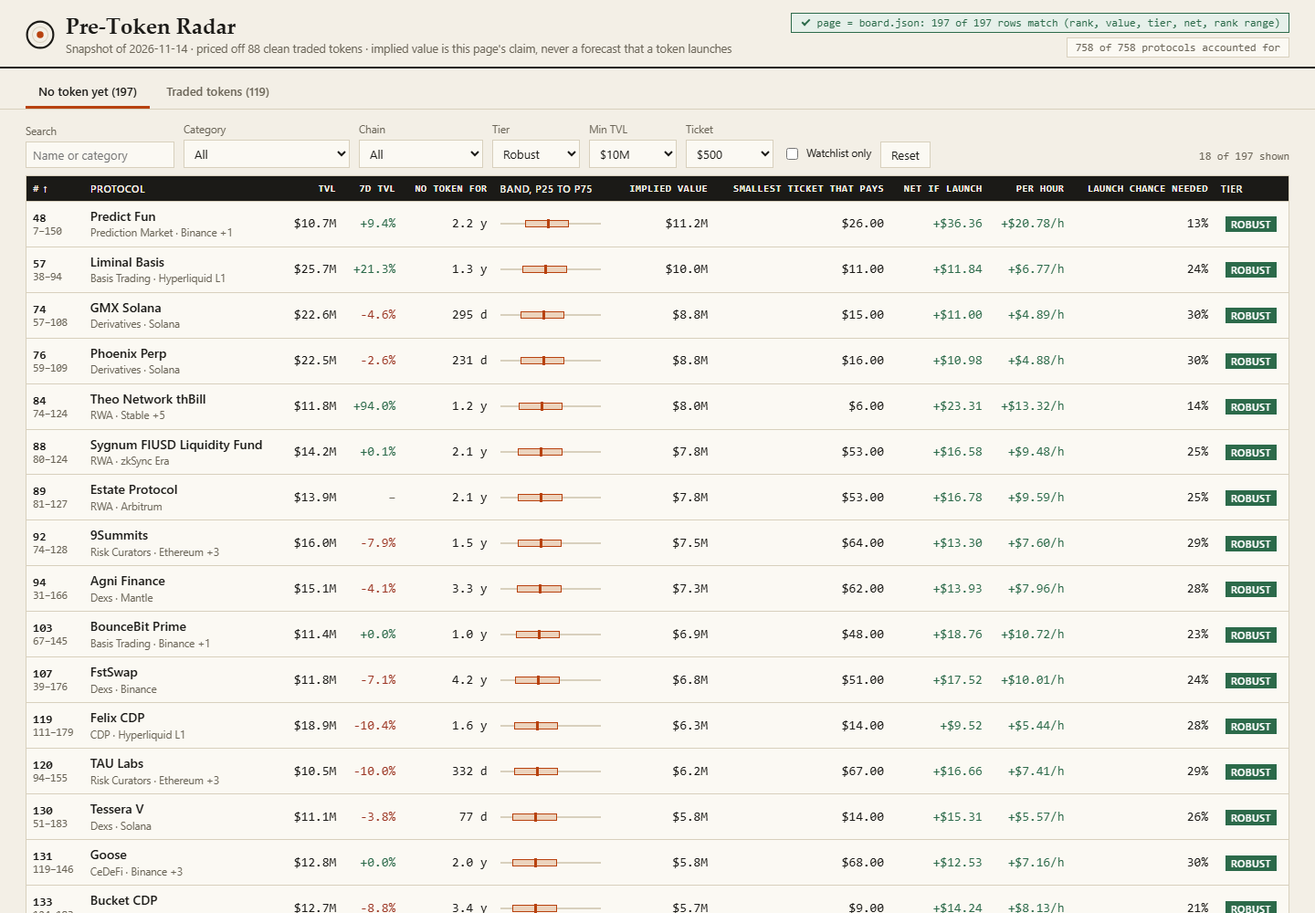
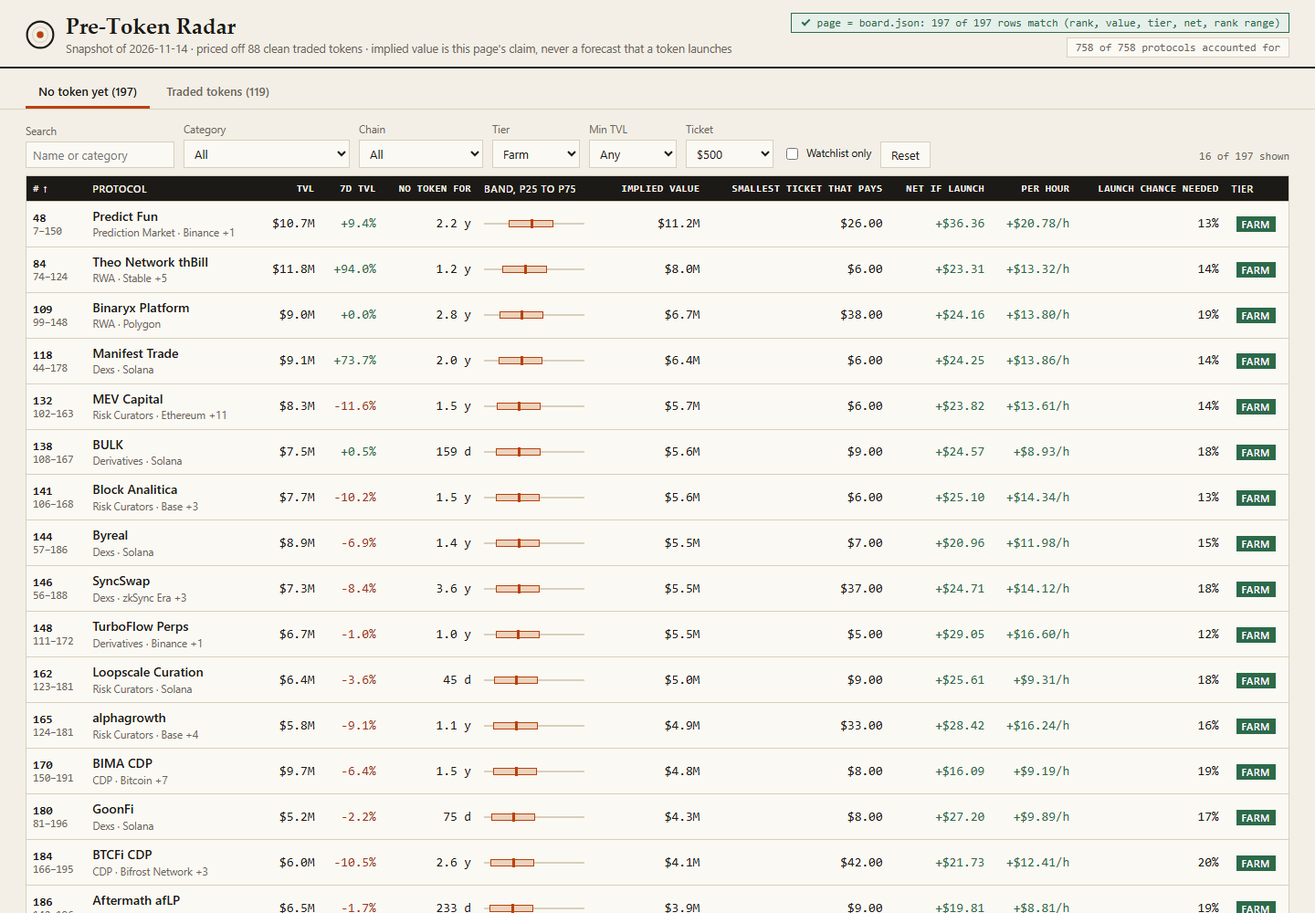
v7: day-by-day farm table with stop rule, three tiers, KPI strip, fourth screenshot

diff --git a/dashboard/app.js b/dashboard/app.js
@@ -3,6 +3,7 @@
 'use strict';
 var S = window.SNAPSHOT, M = window.RadarModel, FILE = window.BOARD;
 if (!S || !M) return;
+var LABEL = { farm: 'Worth farming', marginal: 'Marginal', skip: 'Skip' };
 var D = M.PARAMS, main = document.getElementById('main'), board, bySlug;
 var st = {
   tab: 'board', q: '', cat: 'all', chain: 'all', tier: 'all', minTvl: 0, list: false, sort: 'rank', dir: 1,
@@ -69,9 +70,7 @@ function header() {
   box.appendChild(el('span', { cls: 'stamp' + (good ? ' ok' : ' bad') }, ['page = board.json: ' + ok + ' of ' + base.rows.length + ' rows match', el('span', { cls: 'long', text: '(rank, value, tier, net, rank range)' })]));
   var total = board.rows.length + board.aside.length + board.withToken;
   box.appendChild(el('span', { cls: 'stamp plain', text: total + ' of ' + S.protocols.length + ' protocols accounted for' }));
-  var top = board.rows.slice(0, 10), never = top.filter(function (r) { return r.min_ticket_usd === null; }).length;
-  var best = board.rows.filter(function (r) { return r.verdict === 'robust'; }).sort(function (a, b) { return b.net_per_hour_usd - a.net_per_hour_usd; }).slice(0, 3);
-  st.find = { never: never, best: best };
+  st.best = board.rows.filter(function (r) { return r.verdict === 'farm'; }).sort(function (a, b) { return b.net_per_hour_usd - a.net_per_hour_usd; })[0];
   document.getElementById('finding').textContent = 'Snapshot of ' + S.as_of + ' · priced off ' + board.model.n + ' clean traded tokens · implied value is this page\'s claim, never a forecast that a token launches';
 }
 
@@ -139,22 +138,25 @@ function planPanel() {
       el('button', { type: 'button', cls: 'btn', text: 'Download board CSV', onclick: downloadCsv })])]);
 }
 
+function kpi(items) {
+  return el('div', { cls: 'kpi' }, items.map(function (x) { return el('div', null, [el('b', { text: x[0] }), el('span', { text: x[1] })]); }));
+}
 function hero() {
-  var f = st.find, names = f.best.map(function (r) { return r.name; }).join(', ');
+  var m = board.model, t = board.tiers, b = st.best, band = m.bands[0], inList = board.rows.filter(function (r) { return r.on_watchlist; }).length;
   return el('section', { cls: 'hero' }, [
     el('h2', { text: board.rows.length + ' protocols record no token. Here is what each launch would be worth, and what farming it nets.' }),
-    el('p', { text: 'Each value is read off a curve fitted to the ' + board.model.n + ' clean tokens that already trade; one function in model.js prices every row here and in board.json. Each plan is netted against fees, friction and the T-bill return: ' + f.never + ' of the 10 largest pay at no ticket size, while ' + (names || 'none') + ' pay best per hands-on hour.' }),
+    el('p', { text: 'Each value is read off a curve fitted to the ' + m.n + ' clean tokens that already trade. One function in model.js prices every row here and in board.json, and each plan is netted against fees, friction and the T-bill return.' }),
+    kpi([[String(board.rows.length), 'record no token; ' + inList + ' of ' + S.watchlist.length + ' watchlist protocols ranked'],
+      ['×' + m.backtest.full.median.toFixed(2), 'median miss when each traded token is left out; one flat multiple misses ×' + m.backtest.flat.median.toFixed(2)],
+      [Math.round(band.blind * 100) + '%', 'of held-out market caps land inside the printed P25 to P75 band, ' + Math.round(band.newer * 100) + '% on the newest tokens'],
+      [String(t.farm), 'worth farming at ' + usd(st.capital) + '; ' + t.marginal + ' marginal, ' + t.skip + ' skip'],
+      [b ? net(b.net_per_hour_usd) + '/h' : 'none', b ? 'best net per hands-on hour: ' + b.name : 'no plan clears the farm bar']]),
     accounting()]);
 }
-
 function buildPanel() {
-  var m = board.model, b = m.backtest, t = board.tiers, inList = board.rows.filter(function (r) { return r.on_watchlist; }).length;
-  function fig(big, label) { return el('div', null, [el('b', { text: big }), el('span', { text: label })]); }
+  var m = board.model, b = m.backtest;
   return el('section', { cls: 'panel', 'aria-label': 'How a value is built' }, [
     el('h2', { text: 'How a value is built, and how it tested' }),
-    el('div', { cls: 'figs' }, [
-      fig(String(board.rows.length), 'ranked, no token'), fig(inList + ' / ' + S.watchlist.length, 'watchlist covered'),
-      fig(t.robust + ' · ' + t.farm + ' · ' + t.thin + ' · ' + t.skip, 'robust · farm · thin · skip at ' + usd(st.capital))]),
     mini(['Each adds a term', 'Blind miss', '≤ ×3', 'Rank ρ', 'Newer miss'], m.ablation.map(function (a, i) {
       return [a.label + (i === 2 ? ' · used' : i > 2 ? ' · capped' : ''), '×' + a.miss.toFixed(2), Math.round(a.within3 * 100) + '%', a.rho === null ? '–' : a.rho.toFixed(2), '×' + a.newer.toFixed(2)];
     }), 'compareModels()', 2),
@@ -223,7 +225,7 @@ function controls() {
     field('Search', el('input', { type: 'search', value: st.q, placeholder: 'Name or category', oninput: function (e) { st.q = e.target.value; fill(); } })),
     pick('Category', st.cat, all.concat(cats.map(function (c) { return [c, c]; })), function (v) { st.cat = v; render(); }),
     pick('Chain', st.chain, all.concat(chains.map(function (c) { return [c, c]; })), function (v) { st.chain = v; render(); }),
-    pick('Tier', st.tier, [['all', 'Any'], ['robust', 'Robust'], ['farm', 'Farm'], ['thin', 'Thin'], ['skip', 'Skip']], function (v) { st.tier = v; render(); }),
+    pick('Tier', st.tier, [['all', 'Any'], ['farm', 'Farm'], ['marginal', 'Marginal'], ['skip', 'Skip']], function (v) { st.tier = v; render(); }),
     pick('Min TVL', st.minTvl, [[0, 'Any'], [1e7, '$10M'], [5e7, '$50M'], [1e8, '$100M'], [5e8, '$500M']], function (v) { st.minTvl = Number(v); render(); }),
     pick('Ticket', st.capital, [250, 500, 1000, 5000].map(function (c) { return [c, usd(c)]; }), function (v) { st.capital = Number(v); recompute(); render(); }),
     el('label', { cls: 'check' }, [box, 'Watchlist only']),
@@ -272,34 +274,6 @@ function fill() {
 }
 
 // protocol file
-// A costed farm timeline: what has been spent by each week, against what a launch would pay at the end.
-function timeline(f) {
-  var W = 560, H = 150, L = 48, R = 12, T = 12, B = 26, weeks = f.weeks, spent = [], total = 0;
-  for (var w = 0; w <= weeks; w++) {
-    var tx = w === 0 ? 3 : 0;
-    if (w > 0 && (!f.costly || w % 2 === 1)) tx += 2;
-    if (w === weeks) tx += 2;
-    total += tx * f.fee + (w === 0 ? f.friction / 2 : 0) + (w > 0 ? f.carry / weeks : 0) + (w === weeks ? f.friction / 2 : 0);
-    spent.push({ w: w, tx: tx, total: total });
-  }
-  var step = Math.pow(10, Math.floor(Math.log(Math.max(total, f.reward.base)) / Math.LN10)), top = Math.ceil((Math.max(total, f.reward.base) * 1.15) / step) * step;
-  function X(v) { return L + (v / weeks) * (W - L - R); }
-  function Y(v) { return T + (1 - v / top) * (H - T - B); }
-  var g = sv('svg', { viewBox: '0 0 ' + W + ' ' + H, role: 'img', 'aria-label': 'Costs spent by week against the reward if a launch happens' });
-  [0, top / 2].forEach(function (v) { g.appendChild(sv('line', { x1: L, x2: W - R, y1: Y(v), y2: Y(v), stroke: 'var(--rule)' })); g.appendChild(sv('text', { x: L - 6, y: Y(v) + 4, 'text-anchor': 'end' }, usd(v))); });
-  spent.forEach(function (s) {
-    if (s.tx) g.appendChild(sv('rect', { x: X(s.w) - 3, y: Y(s.tx * f.fee), width: 6, height: Math.max(1, Y(0) - Y(s.tx * f.fee)), fill: 'var(--muted)' }));
-    g.appendChild(sv('text', { x: X(s.w), y: H - 8, 'text-anchor': 'middle' }, s.w === 0 ? 'start' : 'wk ' + s.w));
-  });
-  g.appendChild(sv('polyline', { points: spent.map(function (s) { return X(s.w) + ',' + Y(s.total); }).join(' '), fill: 'none', stroke: 'var(--ink)', 'stroke-width': 1.6 }));
-  g.appendChild(sv('text', { x: W - R, y: Y(total) - 5, 'text-anchor': 'end' }, 'spent by exit ' + usd(total)));
-  [['low', f.reward.low, 'var(--muted)'], ['base', f.reward.base, 'var(--data)']].forEach(function (x) {
-    g.appendChild(sv('line', { x1: L, x2: W - R, y1: Y(x[1]), y2: Y(x[1]), stroke: x[2], 'stroke-dasharray': '4 3' }));
-    g.appendChild(sv('text', { x: W - R, y: Y(x[1]) - 4, 'text-anchor': 'end' }, 'reward if launch, ' + x[0] + ' ' + usd(x[1])));
-  });
-  return g;
-}
-
 function protocolFile(r) {
   var f = r.farm, cat = r.category || 'Uncategorised';
   var p = S.protocols.filter(function (x) { return x.slug === r.slug; })[0], v = M.impliedValue(board.model, p, S.as_of);
@@ -307,10 +281,8 @@ function protocolFile(r) {
   var near = board.model.points.filter(function (c) { return c.clean; }).sort(function (a, b) {
     return (a.category === cat ? 0 : 1) - (b.category === cat ? 0 : 1) || Math.abs(Math.log(a.tvl / r.tvl_usd)) - Math.abs(Math.log(b.tvl / r.tvl_usd));
   }).slice(0, 4);
-  var ten = board.model.tenure, at = -1;
-  for (var i = 0; r.age_days !== null && i < ten.length; i++) if (r.age_days < ten[i].upTo) { at = i; break; }
-  var steps = el('ol', { cls: 'plan-steps' });
-  f.steps.forEach(function (s) { steps.appendChild(el('li', null, [s.text, el('small', { text: 'Cost: ' + s.cost + ' · Time: ' + s.time })])); });
+  var steps = el('table', { cls: 'mini steps', 'aria-label': 'Farm steps' }, [el('thead', null, [el('tr', null, ['When', 'Step', 'Cost', 'Time'].map(function (h) { return el('th', { text: h }); }))]),
+    el('tbody', null, f.steps.map(function (s) { return el('tr', null, [s.when, s.text, s.cost, s.time].map(function (c) { return el('td', { text: c }); })); }))]);
   return el('section', { cls: 'file', 'aria-label': 'Protocol file' }, [
     el('header', null, [
       el('div', null, [el('button', { type: 'button', cls: 'btn', text: 'Back to the board', onclick: function () { st.sel = null; render(); } }),
@@ -318,6 +290,8 @@ function protocolFile(r) {
         el('div', { cls: 'meta', text: '#' + r.rank + ' (rank range ' + r.rank_lo + '–' + r.rank_hi + ' over 200 refits) · ' + cat + ' · ' + r.chains.join(', ') + ' · ' + (r.on_watchlist ? 'on the watchlist' : 'below the watchlist') })]),
       el('div', null, [el('div', { cls: 'big', text: usd(r.implied_value_usd) }),
         el('div', { cls: 'meta', text: 'band ' + usd(r.value_low_usd) + ' to ' + usd(r.value_high_usd) + ' · confidence ' + r.confidence + ', ' + r.category_sample + ' clean traded token' + (r.category_sample == 1 ? '' : 's') + ' in ' + cat })])]),
+    kpi([[usd(f.capital), 'at risk for ' + f.weeks + ' weeks on ' + f.chain], [usd(f.costs), 'fees, friction and T-bill return given up'], [f.hours.toFixed(1) + ' h', 'of your time'],
+      [net(f.net.base), 'net if a launch happens, ' + net(f.net.low) + ' at the low end'], [pct(f.needBase), 'launch chance needed to break even']]),
     el('div', { cls: 'cols' }, [
       el('div', { cls: 'stack' }, [
         el('div', { cls: 'panel' }, [el('h2', { text: 'How the value is built' }), el('div', { cls: 'kv' }, [
@@ -326,25 +300,21 @@ function protocolFile(r) {
           kv('timeTilt(): ' + age(r.age_days) + ' with no token, capped', '×' + r.age_multiplier.toFixed(3)),
           kv('impliedValue()', usd(v.value) + (v.value === r.implied_value_usd ? ', same as board.json' : ', differs from board.json'), 'tot')])]),
         el('div', { cls: 'panel fig' }, [el('h2', { text: 'Against the traded tokens' }), chart(520, 220, r),
-          el('div', { cls: 'kv' }, near.map(function (c) { return kv(c.name + ' · TVL ' + usd(c.tvl), usd(c.mcap) + ' market cap, ×' + c.ratio.toFixed(2)); }))]),
-        el('div', { cls: 'panel' }, [el('h2', { text: 'How often a token comes, by time tracked' }),
-          mini(['Tracked for', 'Record a token', 'Share'], ten.map(function (b) { return [b.name, b.tok + ' of ' + b.n, Math.round(b.share * 100) + '%']; }), 'launchTenure()', at),
-          el('p', { cls: 'note' }, [code('launchTenure()'), ': this snapshot, not a forecast. The plan needs a launch chance of ' + pct(f.needBase) + (at >= 0 ? '; ' + Math.round(ten[at].share * 100) + '% tracked as long record a token.' : '.')])])]),
+          el('div', { cls: 'kv' }, near.map(function (c) { return kv(c.name + ' · TVL ' + usd(c.tvl), usd(c.mcap) + ' market cap, ×' + c.ratio.toFixed(2)); }))])]),
       el('div', { cls: 'panel' }, [
-        el('h2', { text: 'Farm at ' + usd(f.capital) + ' with a ' + Math.round(f.share * 100) + '% farmer share: ' + r.verdict }),
+        el('h2', null, ['Farm plan at ' + usd(f.capital) + ', ' + Math.round(f.share * 100) + '% farmer share ', el('span', { cls: 'pill t-' + r.verdict, text: LABEL[r.verdict] })]),
+        steps,
         el('div', { cls: 'kv' }, [
           kv('Reward if launch, low · base · high', usd(f.reward.low) + ' · ' + usd(f.reward.base) + ' · ' + usd(f.reward.high)),
           kv('Fees · friction · T-bill return given up', usd(f.fees) + ' · ' + usd(f.friction) + ' · ' + usd(f.carry)),
           kv('Net if launch, low · base · high', net(f.net.low) + ' · ' + net(f.net.base) + ' · ' + net(f.net.high), 'tot'),
           kv('Break-even value · odds the band reaches it', usd(f.be) + ' · ' + pct(f.odds)),
-          kv('Launch chance needed to break even', pct(f.needBase) + ' at the base value, ' + pct(f.needLow) + ' at the low end'),
+          kv('Launch chance needed, at the low end', pct(f.needLow)),
           kv('minTicket(): smallest ticket that pays', isFinite(f.minBase) ? usd(f.minBase) + ' at the base value, ' + (isFinite(f.minLow) ? usd(f.minLow) : 'none') + ' at the low end' : 'none: each dollar\'s slice is below the T-bill return'),
           kv('Pays at the low end from a farmer share of', pct(f.paysFrom)),
-          kv('Hands-on time · net per hour', f.hours.toFixed(1) + ' h · ' + net(r.net_per_hour_usd) + '/h')]),
-        el('h2', { cls: 'gap', text: 'Spent by week against the reward if a launch happens' }), timeline(f), steps,
-        el('p', { cls: 'note', text: 'Tier: the share of blind misses that keep the net above zero if a launch happens (robust 75%+, farm 50%+, thin 25%+). The farmer share is an assumption; the median airdrop is near 7.5% of supply.' })])])]);
+          kv('Net per hands-on hour', net(r.net_per_hour_usd) + '/h')]),
+        el('p', { cls: 'note', text: 'Tier: the share of blind misses that keep the net above zero if a launch happens (farm 80%+, marginal 60%+). The farmer share is an assumption; the median airdrop is near 7.5% of supply.' })])])]);
 }
-
 // export
 function copyPlan(p, button) {
   var lines = ['Pre-Token Radar plan, snapshot ' + S.as_of + ', budget ' + usd(st.budget) + ', ' + st.hours + ' h a week, farmer share ' + Math.round(st.share * 100) + '%'];

diff --git a/dashboard/model.js b/dashboard/model.js
@@ -121,20 +121,6 @@ function bandCheck(set, errs) {
       blind: inside(errs, quantile(errs, q[0]), quantile(errs, q[1])), newer: inside(test, quantile(train, q[0]), quantile(train, q[1])) };
   });
 }
-// launchTenure(): the share of dated protocols that record a token, by time tracked.
-function launchTenure(snap) {
-  var t = [[180, 'under 6 mo'], [365, '6–12 mo'], [730, '1–2 y'], [1095, '2–3 y'], [1460, '3–4 y'], [Infinity, '4 y+']].map(function (b) { return { upTo: b[0], name: b[1], n: 0, tok: 0 }; });
-  snap.protocols.forEach(function (p) {
-    var a = ageDays(snap.as_of, p.listed_at);
-    if (a === null) return;
-    for (var i = 0; a >= t[i].upTo; i++);
-    t[i].n++;
-    if (recordsToken(p)) t[i].tok++;
-  });
-  t.forEach(function (b) { b.share = b.n ? b.tok / b.n : 0; });
-  return t;
-}
-
 var fitCache = typeof WeakMap === 'function' ? new WeakMap() : null;
 var rankCache = typeof WeakMap === 'function' ? new WeakMap() : null;
 function fit(snap) {
@@ -148,7 +134,7 @@ function fit(snap) {
   m.catN = {};
   set.forEach(function (f) { m.catN[f.cat] = (m.catN[f.cat] || 0) + 1; });
   m.backtest = { flat: score(blindTest(set, 'flat')), full: score(errs), split: timeSplitTest(set) };
-  m.ablation = compareModels(set, snap.as_of); m.bands = bandCheck(set, errs); m.tenure = launchTenure(snap);
+  m.ablation = compareModels(set, snap.as_of); m.bands = bandCheck(set, errs);
   var k = 0;
   m.points = all.map(function (f) {
     var clean = !setAsideReason(f.p), pred = clean ? Math.exp(f.y - errs[k++]) : Math.exp(curveLog(m, f.x, f.cat));
@@ -239,7 +225,7 @@ function minTicket(tvl, value, fees, days, share) {
   return perDollar <= prop ? Infinity : fees / (perDollar - prop);
 }
 // Tier: how often the blind misses keep the net above zero if a launch happens.
-function tierOf(odds) { return odds >= 0.75 ? 'robust' : odds >= 0.5 ? 'farm' : odds >= 0.25 ? 'thin' : 'skip'; }
+function tierOf(odds) { return odds >= 0.8 ? 'farm' : odds >= 0.6 ? 'marginal' : 'skip'; }
 
 var PLAYS = {
   lending: ['Deposit {cap} of a stable asset into {name} on {chain} as collateral, and keep the loan-to-value under 40% if you borrow.', 'borrow about {fifth}, hold it a day and repay it, so supply and borrow are both recorded.'],
@@ -270,17 +256,19 @@ function farmPlan(p, v, o, m) {
   var act = PLAYS[kindOf(p.category)].map(function (s) { return s.replace(/\{(\w+)\}/g, function (_, k) { return words[k]; }); });
   var core = act[0], weekly = act[1];
   var steps = [
-    { text: 'Open a fresh wallet that holds only the farm funds, keep its seed phrase offline, and connect it to ' + name + ' on ' + chain + ', the cheapest of its ' + p.chains.length + ' chains.', cost: 'about ' + money(fee) + ' for the first approval', time: '10 minutes' },
-    { text: core, cost: cap + ' you get back, plus about ' + money(fee * 2) + ' in fees', time: '20 minutes' },
-    { text: when + weekly, cost: 'about ' + money(fee * 2) + ' in fees each time', time: '15 minutes ' + (costly ? 'every second week' : 'a week') },
-    { text: 'Keep the position open for ' + weeks + ' weeks. ' + (v.age === null ? 'DefiLlama gives no start date, so assume a long window.' : 'It has gone ' + v.age + ' days with no token' + (v.age < 180 ? ', so a program, if one comes, may count early users.' : ', so a program, if any, may weigh how long a wallet stayed.')), cost: 'the ' + cap + ' gives up about ' + money(e.carry) + ' of T-bill return at ' + P.tbill * 100 + '% a year', time: weeks + ' weeks' }
+    { when: 'Day 0', text: 'Open a fresh wallet that holds only the farm funds, keep its seed phrase offline, and connect it to ' + name + ' on ' + chain + ', the cheapest of its ' + p.chains.length + ' chains.', cost: 'about ' + money(fee) + ' for the first approval', time: '10 minutes' },
+    { when: 'Day 0', text: core, cost: cap + ' you get back, plus about ' + money(fee * 2) + ' in fees', time: '20 minutes' },
+    { when: costly ? 'Every 2nd week' : 'Weekly', text: when + weekly, cost: 'about ' + money(fee * 2) + ' in fees each time', time: '15 minutes' },
+    { when: 'Weeks 1 to ' + weeks, text: 'Keep the position open for ' + weeks + ' weeks. ' + (v.age === null ? 'DefiLlama gives no start date, so assume a long window.' : 'It has gone ' + v.age + ' days with no token' + (v.age < 180 ? ', so a program, if one comes, may count early users.' : ', so a program, if any, may weigh how long a wallet stayed.')), cost: 'the ' + cap + ' gives up about ' + money(e.carry) + ' of T-bill return at ' + P.tbill * 100 + '% a year', time: weeks + ' weeks' }
   ];
-  if (p.chains.length > 1) steps.push({ text: 'Make one small action on a second chain with the same wallet, since ' + name + ' records TVL on ' + p.chains.length + ' chains.', cost: 'about ' + money(Math.max(fee, feePerTx(p.chains[1])) * 2) + ' in fees', time: '20 minutes' });
-  steps.push({
-    text: 'If a launch happens, ' + cap + ' at a farmer share of ' + Math.round(share * 100) + '% earns ' + money(e.reward.base) + ' (band ' + money(e.reward.low) + ' to ' + money(e.reward.high) + ') against ' + money(e.costs) + ' of fees, friction and T-bill carry: ' + signed(e.net.base) + '. It needs a launch chance of ' + (isFinite(needBase) ? pct(Math.min(needBase, 9.99)) : 'more than 100%') + ' to break even. ' + (isFinite(minBase) ? 'The smallest ticket that pays is ' + money(minBase) + '.' : 'No ticket pays: each dollar\'s slice is below the T-bill return.') + ' The band keeps the net above zero ' + pct(odds) + ' of the time. Tier: ' + tier + '.' + (fees / C > P.highFee ? ' Fees alone are ' + Math.round((fees / C) * 100) + '% of the ticket.' : ''),
-    cost: money(e.costs) + ' in all', time: 'decide before you deposit'
+  if (p.chains.length > 1) steps.push({ when: 'Week 1', text: 'Make one small action on a second chain with the same wallet, since ' + name + ' records TVL on ' + p.chains.length + ' chains.', cost: 'about ' + money(Math.max(fee, feePerTx(p.chains[1])) * 2) + ' in fees', time: '20 minutes' });
+  steps.unshift({
+    when: 'Before day 0', text: 'If a launch happens, ' + cap + ' at a farmer share of ' + Math.round(share * 100) + '% earns ' + money(e.reward.base) + ' (band ' + money(e.reward.low) + ' to ' + money(e.reward.high) + ') against ' + money(e.costs) + ' of fees, friction and T-bill carry: ' + signed(e.net.base) + '. It needs a launch chance of ' + (isFinite(needBase) ? pct(Math.min(needBase, 9.99)) : 'more than 100%') + ' to break even. ' + (isFinite(minBase) ? 'The smallest ticket that pays is ' + money(minBase) + '.' : 'No ticket pays: each dollar\'s slice is below the T-bill return.') + ' The band keeps the net above zero ' + pct(odds) + ' of the time. Tier: ' + tier + '.' + (fees / C > P.highFee ? ' Fees alone are ' + Math.round((fees / C) * 100) + '% of the ticket.' : ''),
+    cost: money(e.costs) + ' in all', time: '10 minutes'
   });
-  steps.push({ text: 'Before you withdraw, claim only from the link on the protocol\'s own rewards page, never sign a message that approves your whole balance, and log the dates and hashes.', cost: 'no fee to check, and never pay to claim', time: '15 minutes' });
+  var drop = clamp(Math.abs(p.change_7d || 0) / 50, 0.1, 0.5);
+  steps.push({ when: 'Any day', text: 'Stop rule: if DefiLlama shows ' + name + ' TVL below ' + money(p.tvl_usd * (1 - drop)) + ' (' + Math.round(drop * 100) + '% under today\'s ' + money(p.tvl_usd) + ', or twice its 7-day move), withdraw at once and end the plan.', cost: 'about ' + money(fee) + ' to withdraw', time: '15 minutes' });
+  steps.push({ when: 'Week ' + weeks, text: 'Withdraw. Claim only from the link on the protocol\'s own rewards page, never sign a message that approves your whole balance, and log the dates and hashes.', cost: 'about ' + money(fee) + ' in fees, and never pay to claim', time: '15 minutes' });
   return {
     chain: chain, fee: fee, weeks: weeks, active: active, costly: costly, days: days, fees: fees, hours: hours,
     capital: C, share: share, costs: e.costs, friction: e.friction, carry: e.carry, reward: e.reward, net: e.net,
@@ -321,7 +309,7 @@ function buildBoard(snap, opts) {
   var aside = snap.protocols.filter(function (p) { return !recordsToken(p) && setAsideReason(p); })
     .sort(function (a, b) { return b.tvl_usd - a.tvl_usd; })
     .map(function (p) { return { name: p.name, category: p.category, tvl: p.tvl_usd, reason: setAsideReason(p) }; });
-  var tiers = { robust: 0, farm: 0, thin: 0, skip: 0 };
+  var tiers = { farm: 0, marginal: 0, skip: 0 };
   rows.forEach(function (r) { tiers[r.verdict]++; });
   return { model: m, rows: rows, opts: opts, aside: aside, tiers: tiers, withToken: snap.protocols.filter(recordsToken).length };
 }

diff --git a/dashboard/app.css b/dashboard/app.css
@@ -20,12 +20,12 @@ h1{margin:0;font:700 24px/1.1 var(--title)}
 .tabs button{background:none;border:0;border-bottom:3px solid transparent;padding:8px 14px;color:var(--muted);cursor:pointer;font-weight:600}
 .tabs button[aria-selected="true"]{color:var(--ink);border-bottom-color:var(--data)}
 main{padding:14px 28px 20px}
-.hero{margin-bottom:14px;max-width:1000px}.hero h2{margin:0 0 6px;font:700 28px/1.15 var(--title)}.hero p{margin:0;color:#3b382f}
+.hero{margin-bottom:14px}.hero h2{margin:0 0 6px;font:700 28px/1.15 var(--title);max-width:1000px}.hero p{margin:0;max-width:1000px;color:#3b382f}
 .first{display:grid;grid-template-columns:1.05fr 1fr 1.1fr;gap:16px;margin-bottom:16px;align-items:start}
 .panel{background:var(--surface);border:1px solid var(--line);padding:14px 16px}
 .panel h2{margin:0 0 8px;font:700 17px var(--title)}.panel h2.gap{margin-top:14px}.panel .sub{color:var(--muted);font-size:12px;margin:-4px 0 10px}
-.figs{display:grid;grid-template-columns:repeat(3,1fr);gap:1px;background:var(--line);border:1px solid var(--line);margin-bottom:12px}
-.figs div{background:var(--surface);padding:7px 10px}.figs b{display:block;font:700 19px/1.2 var(--code)}.figs span{font-size:11.5px;color:var(--muted)}
+.kpi{display:grid;grid-template-columns:repeat(5,1fr);gap:1px;background:var(--line);border:1px solid var(--line);margin:10px 0 14px}
+.kpi div{background:var(--surface);padding:9px 12px}.kpi b{display:block;font:700 22px/1.2 var(--code)}.kpi span{font-size:12px;color:var(--muted)}
 .mini{font-size:12px}.mini th,.mini td{padding:4px 6px}.mini tr{cursor:default}.mini tr.on td{background:var(--soft);font-weight:700}
 .acct{margin-top:10px}.acct .bar{display:flex;height:12px;border:1px solid var(--ink)}
 .keys{display:flex;flex-wrap:wrap;gap:4px 14px;margin-top:6px;font-size:12px;color:var(--muted)}.keys i{display:inline-block;width:10px;height:10px;margin-right:5px;vertical-align:-1px}
@@ -52,20 +52,19 @@ tbody tr{cursor:pointer}tbody tr:hover{background:#f1ebdc}tbody tr[aria-selected
 td.rk{color:var(--muted);font:11.5px var(--code)}td.rk b{display:block;color:var(--ink);font-size:13px}
 td.nm{font-weight:600;max-width:250px;overflow:hidden;text-overflow:ellipsis}td.nm small{display:block;font-weight:400;font-size:11.5px;color:var(--muted)}
 .pill{display:inline-block;font:600 11px var(--text);letter-spacing:.04em;text-transform:uppercase;border:1px solid var(--ink);padding:0 5px;margin-left:5px;background:var(--ink);color:var(--ground)}
-.t-robust{border-color:var(--good);background:var(--good);color:#fff}.t-farm{border-color:var(--good);background:none;color:var(--good)}
-.t-thin{border-color:var(--muted);background:none;color:var(--muted)}.t-skip{border-color:var(--bad);background:none;color:var(--bad)}
+.t-farm{border-color:var(--good);background:var(--good);color:#fff}.t-marginal{border-color:var(--data);background:none;color:var(--data)}.t-skip{border-color:var(--muted);background:none;color:var(--muted)}
 .up{color:var(--good)}.down{color:var(--bad)}.dash{color:var(--muted)}
 .band{position:relative;display:block;width:110px;height:14px}.band:before{content:"";position:absolute;left:0;right:0;top:6px;height:2px;background:var(--line)}
 .band i{position:absolute;top:3px;height:8px;background:var(--soft);border:1px solid var(--data)}.band b{position:absolute;top:2px;width:3px;height:10px;background:var(--data)}
 .file{margin-bottom:16px}.file header{display:flex;justify-content:space-between;align-items:flex-end;gap:16px;margin-bottom:12px}
 .file h2.name{font:700 26px var(--title);margin:10px 0 2px}.big{font:700 30px var(--code);color:var(--data);text-align:right}.meta{color:var(--muted);font-size:13px}
-.cols{display:grid;grid-template-columns:1fr 1fr;gap:16px}.stack{display:grid;gap:16px;align-content:start}
+.cols{display:grid;grid-template-columns:5fr 6fr;gap:16px}.stack{display:grid;gap:16px;align-content:start}
 .kv{font:12px/1.6 var(--code)}.kv div{display:flex;justify-content:space-between;gap:12px;padding:3px 0;border-bottom:1px solid var(--rule)}
 .kv div:last-child{border-bottom:0}.kv .tot{font-weight:700;border-top:1px solid var(--ink)}
-ol.plan-steps{margin:8px 0 0;padding-left:20px}ol.plan-steps li{margin-bottom:8px}ol.plan-steps small{display:block;color:var(--muted);font:11.5px var(--code)}
+.steps{margin-bottom:12px}.steps thead th{position:static}.steps td{white-space:normal;vertical-align:top;line-height:1.4}.steps td:nth-child(2){width:46%}.steps td:first-child,.steps td:last-child{white-space:nowrap;font:11.5px var(--code);color:var(--muted)}
 .empty{padding:28px;text-align:center;color:var(--muted)}
-.page{max-width:960px}
+.page p{max-width:960px}
 .foot{padding:12px 28px 24px;color:var(--muted);font-size:12px;border-top:1px solid var(--line)}
-@media (max-width:1180px){.first,.cols{grid-template-columns:1fr}}
+@media (max-width:1180px){.first,.cols{grid-template-columns:1fr}.kpi{grid-template-columns:repeat(3,1fr)}}
 @media (max-width:640px){.top{flex-direction:column;align-items:flex-start;padding:14px 16px 10px}.stamps{align-items:flex-start}
-.tabs,main,.foot{padding-left:16px;padding-right:16px}.figs{grid-template-columns:repeat(2,1fr)}.stamp .long{display:none}.hero h2{font-size:22px}}
+.tabs,main,.foot{padding-left:16px;padding-right:16px}.kpi{grid-template-columns:repeat(2,1fr)}.stamp .long{display:none}.hero h2{font-size:22px}}

diff --git a/PLAN-V7.md b/PLAN-V7.md
@@ -1,0 +1,40 @@
+# PLAN-V7
+
+## 1. Why v7
+
+Leaderboard on 2026-11-18 (11,618 entries): v6 scored 94.72% (interval 93.21 to 96.23, rank 124). The shortlist line (40th best interval low) is 94.00%, so v6 and v5 sit below it. Scores from rank 11 to 300 are within noise of each other; the dev score is a screen, the final heat is head to head.
+
+The judge's five criteria, most important first: a working radar, the value model, farm plans (steps, cost, time), the page, the look. The top entries and v6 share the same model. The visible gaps are in criteria 3 to 5.
+
+## 2. What the leaders do that v6 does not (observed from the public covers and the leaderboard)
+
+| Gap | Evidence | v6 | v7 |
+|---|---|---|---|
+| Four screenshots | 41% of the top 100 use 4, against 19% of all tested entries | 3 | add `4-traded.png`, the traded-token tab (criterion 2: trading tokens kept apart) |
+| Plan as a table with a day, a step, a cost and a time column, a stop rule and a verdict badge | ranks 1 and 3 | seven steps as a list, cost and time in small grey text | table with `When` column, a stop rule step, a "Worth farming" badge |
+| Few plans marked farm | rank 1: 12 farm, 65 marginal, 121 skip | 44 robust, 85 farm, 33 thin, 35 skip | three tiers: farm (the net stays above zero in 80% of blind refits), marginal (60%), skip |
+| Six headline numbers on the first screen | rank 1 | text paragraph | KPI strip: ranked, blind miss, band holds, farm count, best net per hour |
+| Detail view opens with the money | ranks 1 and 3 | list of key-value rows | KPI strip (at risk, costs, time, net, launch chance needed) above the plan |
+
+## 3. What v7 removes to pay for it (source cap: 65,536 bytes of dossier text, 65,190 of source)
+
+- The spend-by-week chart (`timeline()`, about 3.4 KB). The table carries the same costs by day.
+- The launch-tenure table and `launchTenure()` (about 2.1 KB). It described the snapshot and did not change a verdict.
+- The three-figure strip in the build panel (replaced by the KPI strip).
+
+Kept: the ablation table, the band-honesty table, the accounting bar, the planner, CSV export, rank ranges.
+
+## 4. Rules
+
+- The model, the curve, every implied value and every rank stay as in v6. Only the verdict labels, farm steps and the page change, so board.json changes only in `verdict` and `farm_steps`.
+- The page re-runs model.js and checks every row against board.json, as before.
+- Dashboard source must be shown whole in the dossier (gate row "source shown whole").
+- Screenshots: PNG, 1440 wide, short side at least 800, at most 512 KiB, four files.
+- Push to `radar-entry` only, as one command. Do not send the keypair.
+
+## 5. Acceptance
+
+- Gate passes every row, including "source shown whole".
+- All four screenshots viewed, no overflow.
+- `makefun check` shows 0 FAIL.
+- Submit as v7. Dev score has a noise of about plus or minus 1.5 points: a single score does not prove v7 better than v6.

diff --git a/README.md b/README.md
@@ -6,7 +6,7 @@
 
 Pre-Token Radar: a dashboard that ranks DeFi protocols with no recorded token by an implied token value, and gives each one a farm plan with costs and times.
 
-The value model learns from the protocols that already trade. It fits market cap divided by TVL against size and category, then scales a protocol's TVL by that ratio and by three bounded multipliers (7-day growth, time with no token, chain breadth). No protocol name is special-cased. The page states the model on its Method tab, shows the arithmetic for each row, and flags farm plans where fees are a large share of the position. Implied value is this entry's own estimate, not a forecast that any token launches.
+The value model learns from the protocols that already trade. It fits market cap divided by TVL against size and category, then scales a protocol's TVL by that ratio and by two bounded multipliers (7-day growth and time with no token). No protocol name is special-cased. The first screen shows the model and its blind test against flat and size-only versions, and each row has a file with the arithmetic and a day-by-day farm table, and flags farm plans where fees are a large share of the position. Implied value is this entry's own estimate, not a forecast that any token launches.
 
 `PLAN.md` holds the plan the entry was built from.
 
